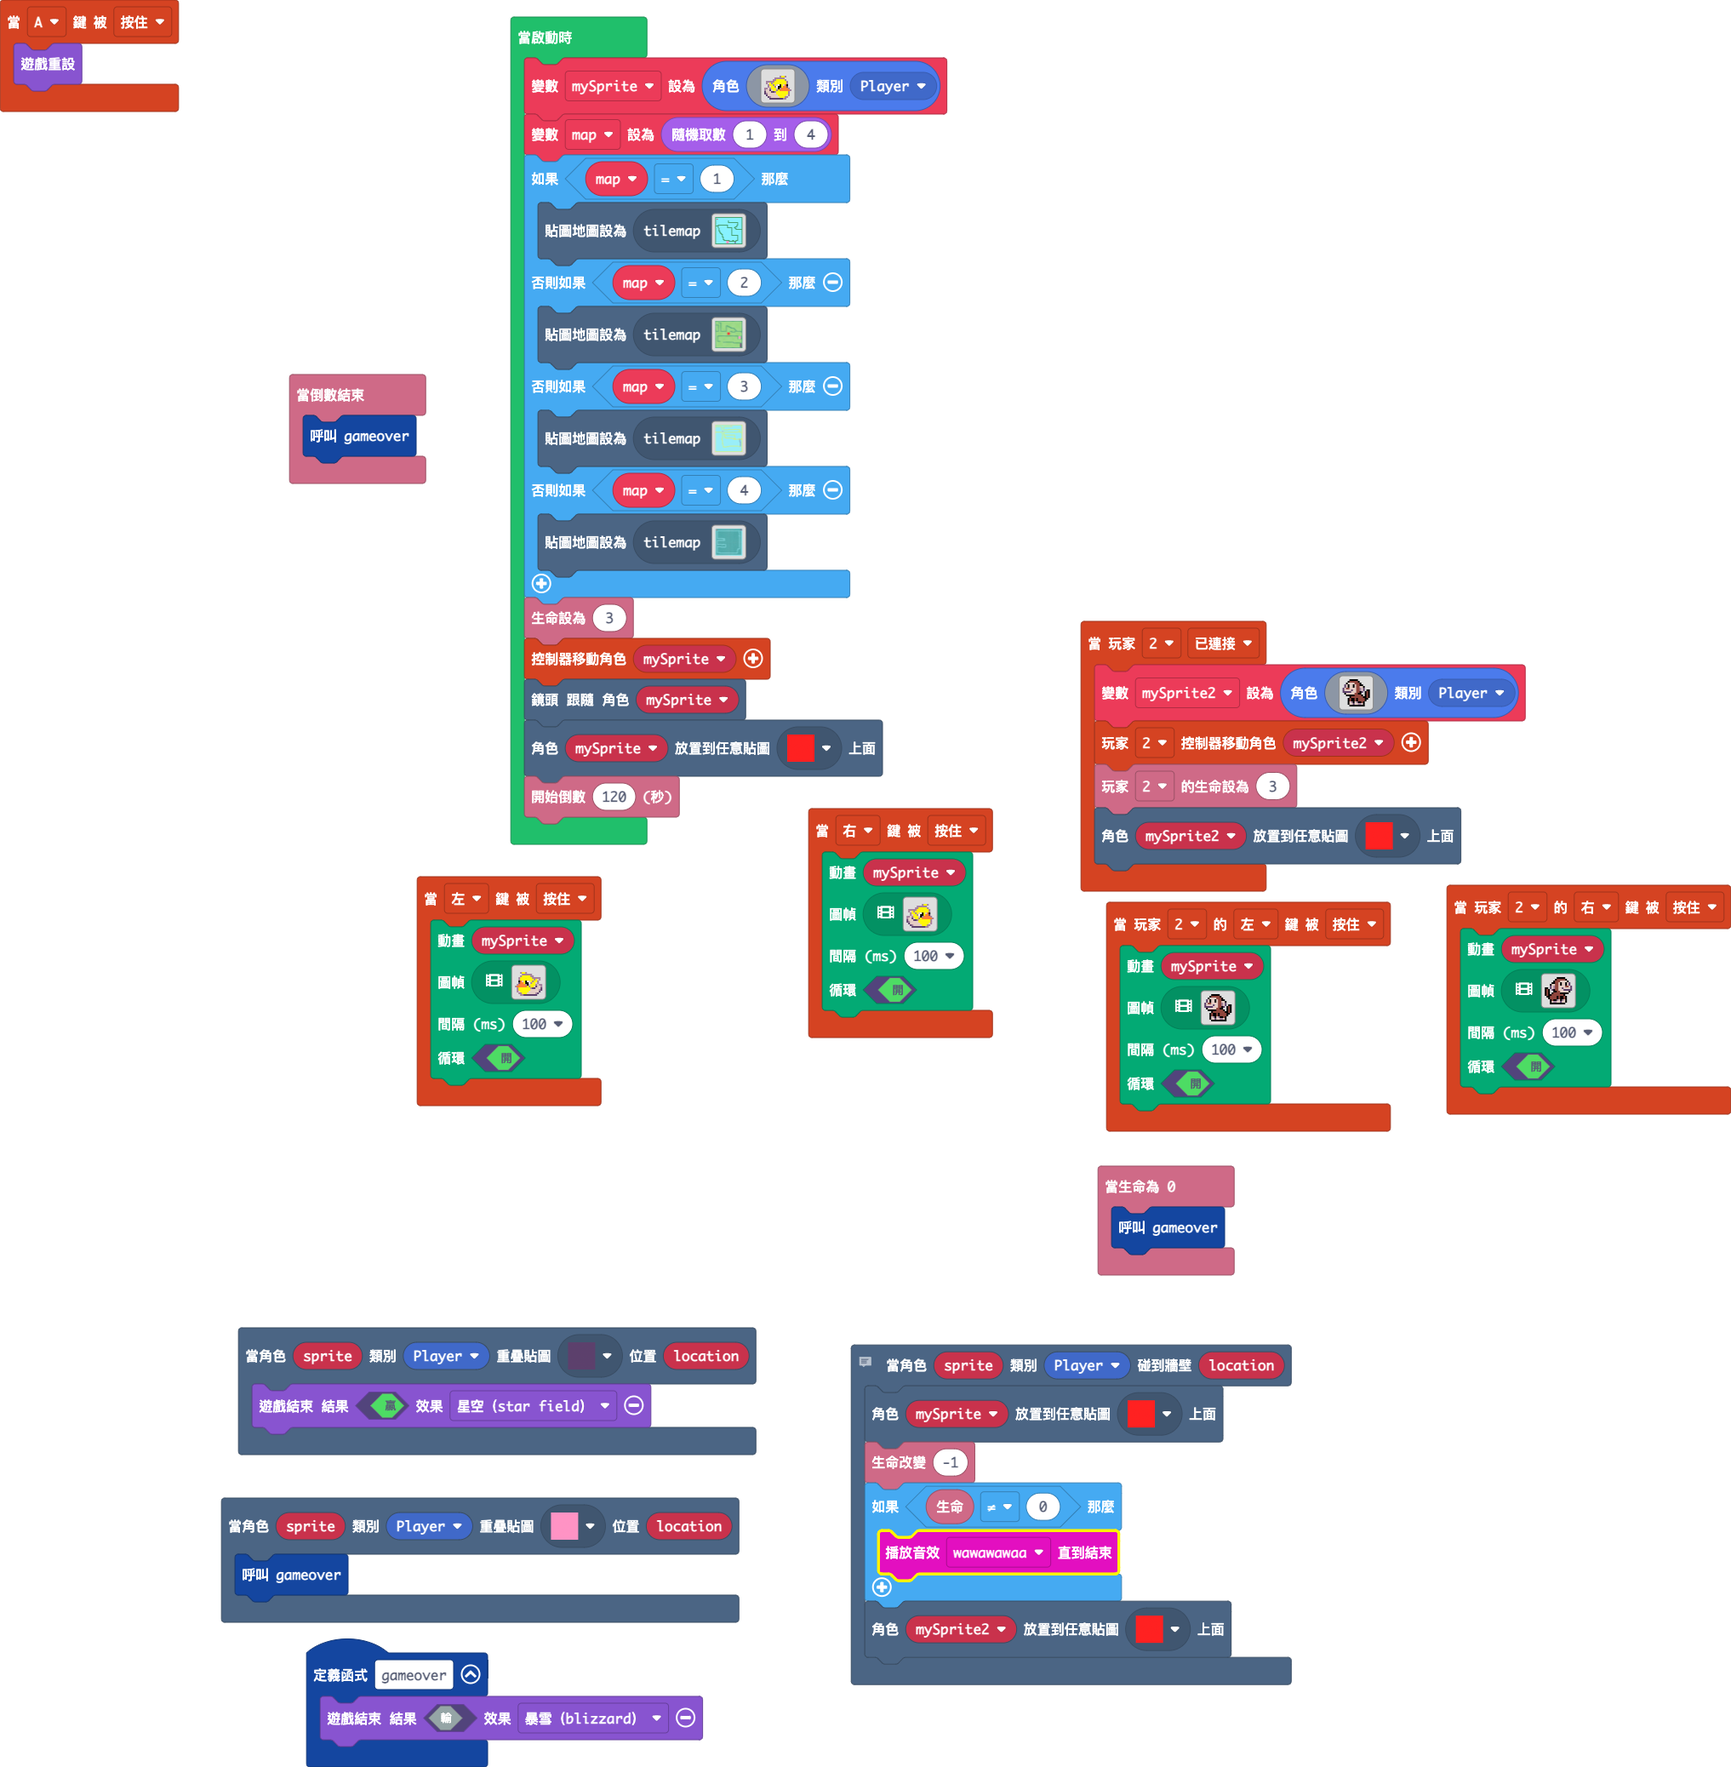
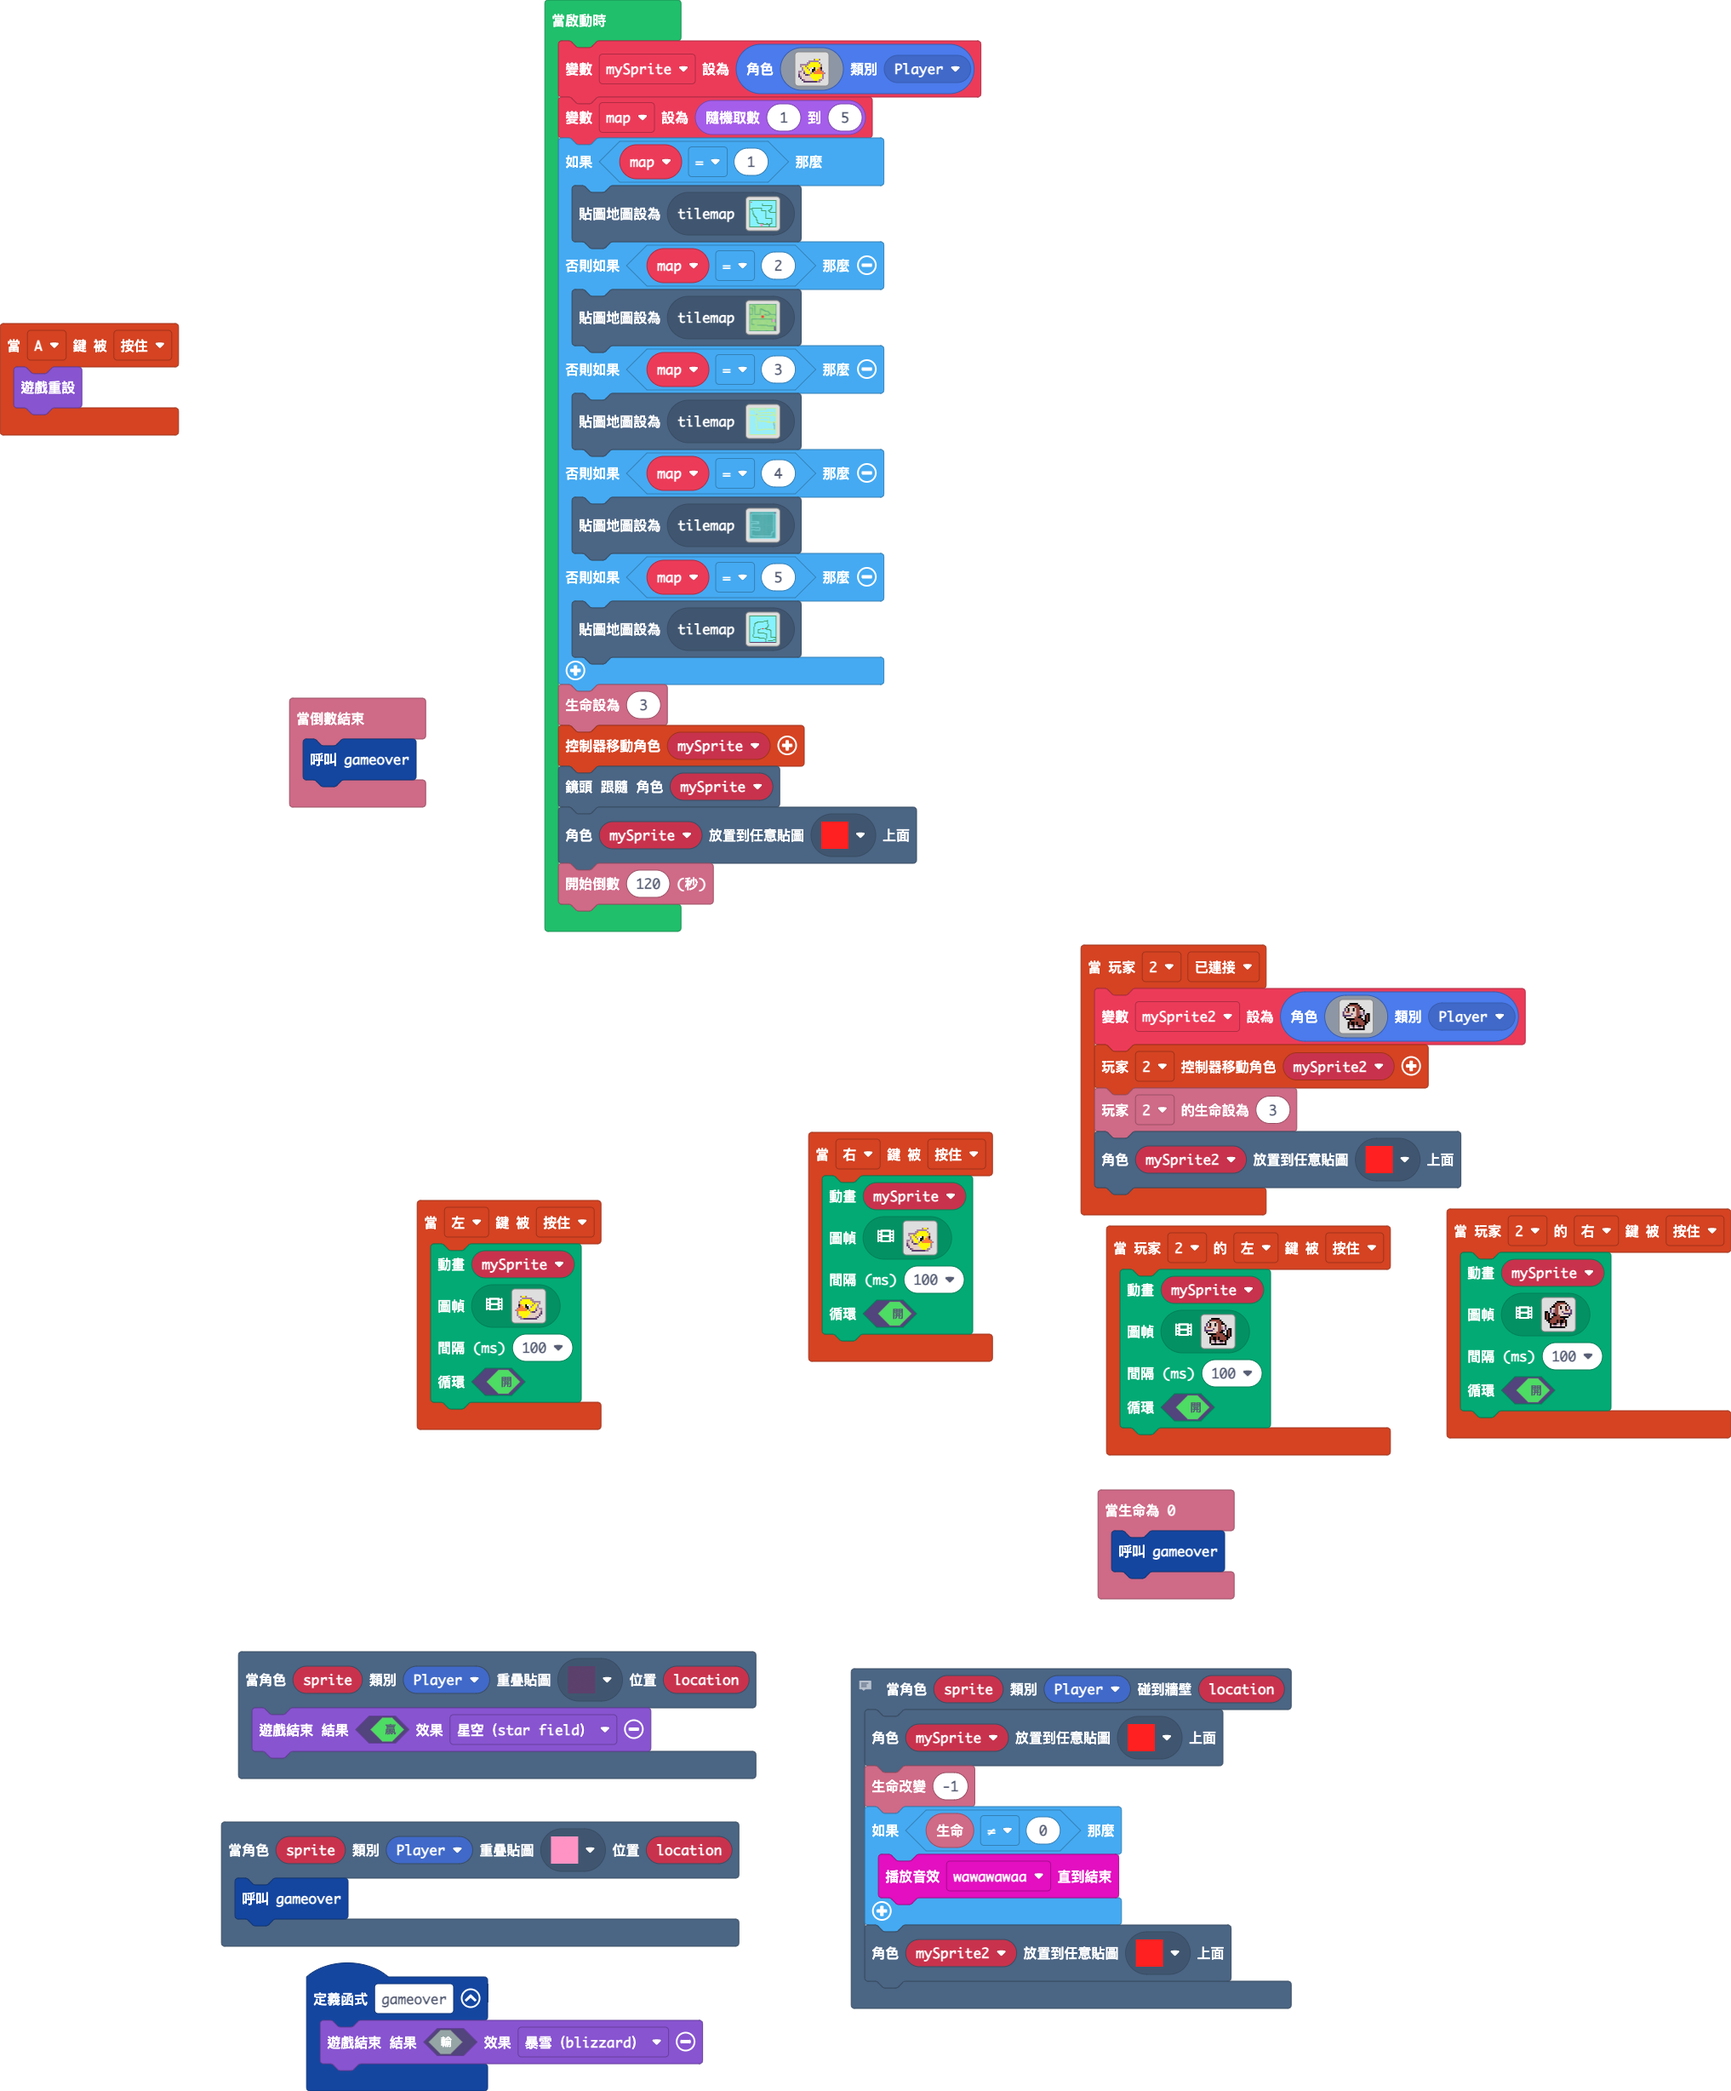
更新 main.blocks, main.ts, tilemap.g.jres, tilemap.g.ts

diff --git a/tilemap.g.ts b/tilemap.g.ts
@@ -414,6 +414,41 @@ namespace myTiles {
 22222222222222222222222222222222222222222222222222222222222222222
 22222222222222222222222222222222222222222222222222222222222222222
 `, [myTiles.transparency16,myTiles.tile1,myTiles.tile3,myTiles.tile4,sprites.castle.tileDarkGrass3], TileScale.Sixteen);
+            case "層級14":
+            case "層級14":return tiles.createTilemap(hex`2000200004040404040404040404040404040404040404040404040404040404040404040402020202020202020202020202020202020202020202020202020202020204040202020202020202020202020202020202020202020202020202020202020404020202020202020202020202020202020202020202020202020202020202040402020202020202020202020202020202020202020202020202020202020204040202020202020202020202020202020202020202040202020202020202020404020202020202020202020202020202020404040404020202020202020202040402020202020202020404040404040404020202020402020202020202020204040202020202020404040202020202020202020202040202020202020202020404020202020204040202020202020202020202020204020202020202020202040402020202020402020202020202020202020202020204020202020202020204040202020202040202020202020202020202020202020402020202020202020404020202020204020202020202020202020202020204040202020202020202040402020202040202020202020202020202020202020402020202020202020204040202020204020202020202020202020202020404040202020202020202020404020202020402020202020202040201010204040402020202020202020202040402020202040202020204040402020202020202040404040402020202020204040202020204020202020402020202020202020202020202040402020202020404020202020402020202040202020202020202020202020202040202020202040402020202040202020204020202020202020202020202020204020202020204040202020204020202020404040404040404020202020202020402020202020404020202020402020202020202020202020204040402020202040202020202040402020204020202020202020202020202020202040202020204020202020204040202020402020202020202020202020202020204020202020402020202020404020202040202020202020202020202020202020402020202040202020202040402020202040404040404040202020202020202040202020204040404040404040202020202020202020204040404040404020204020202020202020202040404020202020202020202020202020202020204040202020202020202020202040402020202020202020202020202020202020204020202020202020204040404040202020202020202020202020202020202020402020404040404040202020404020202020202020202020202020202020202040202020202020202020202040403030303030303030303030303030303030303030303030303030303030304`, img`
+22222222222222222222222222222222
+2..............................2
+2..............................2
+2..............................2
+2..............................2
+2....................2.........2
+2................22222.........2
+2........22222222....2.........2
+2......222...........2.........2
+2.....22.............2.........2
+2.....2...............2........2
+2.....2...............2........2
+2.....2..............22........2
+2....2...............2.........2
+2....2.............222.........2
+2....2.......2....222..........2
+2....2....222.......22222......2
+2....2....2.............22.....2
+2....2....2..............2.....2
+2....2....2..............2.....2
+2....2....22222222.......2.....2
+2....2............222....2.....2
+2...2...............2....2.....2
+2...2...............2....2.....2
+2...2...............2....2.....2
+2....2222222........2....2222222
+2..........2222222..2.........22
+2.................22...........2
+2..................2........2222
+2..................2..222222...2
+2..................2...........2
+2..............................2
+`, [myTiles.transparency16,myTiles.tile1,myTiles.tile3,myTiles.tile4,sprites.builtin.forestTiles0], TileScale.Sixteen);
         }
         return null;
     })

diff --git a/main.ts b/main.ts
@@ -474,7 +474,7 @@ mySprite = sprites.create(img`
     . . c b d d d d d 5 5 5 b b . . 
     . . . c c c c c c c c b b . . . 
     `, SpriteKind.Player)
-let map = randint(1, 4)
+let map = randint(1, 5)
 if (map == 1) {
     tiles.setCurrentTilemap(tilemap`層級4`)
 } else if (map == 2) {
@@ -483,6 +483,8 @@ if (map == 1) {
     tiles.setCurrentTilemap(tilemap`層級11`)
 } else if (map == 4) {
     tiles.setCurrentTilemap(tilemap`層級13`)
+} else if (map == 5) {
+    tiles.setCurrentTilemap(tilemap`層級14`)
 }
 info.setLife(3)
 controller.moveSprite(mySprite)
